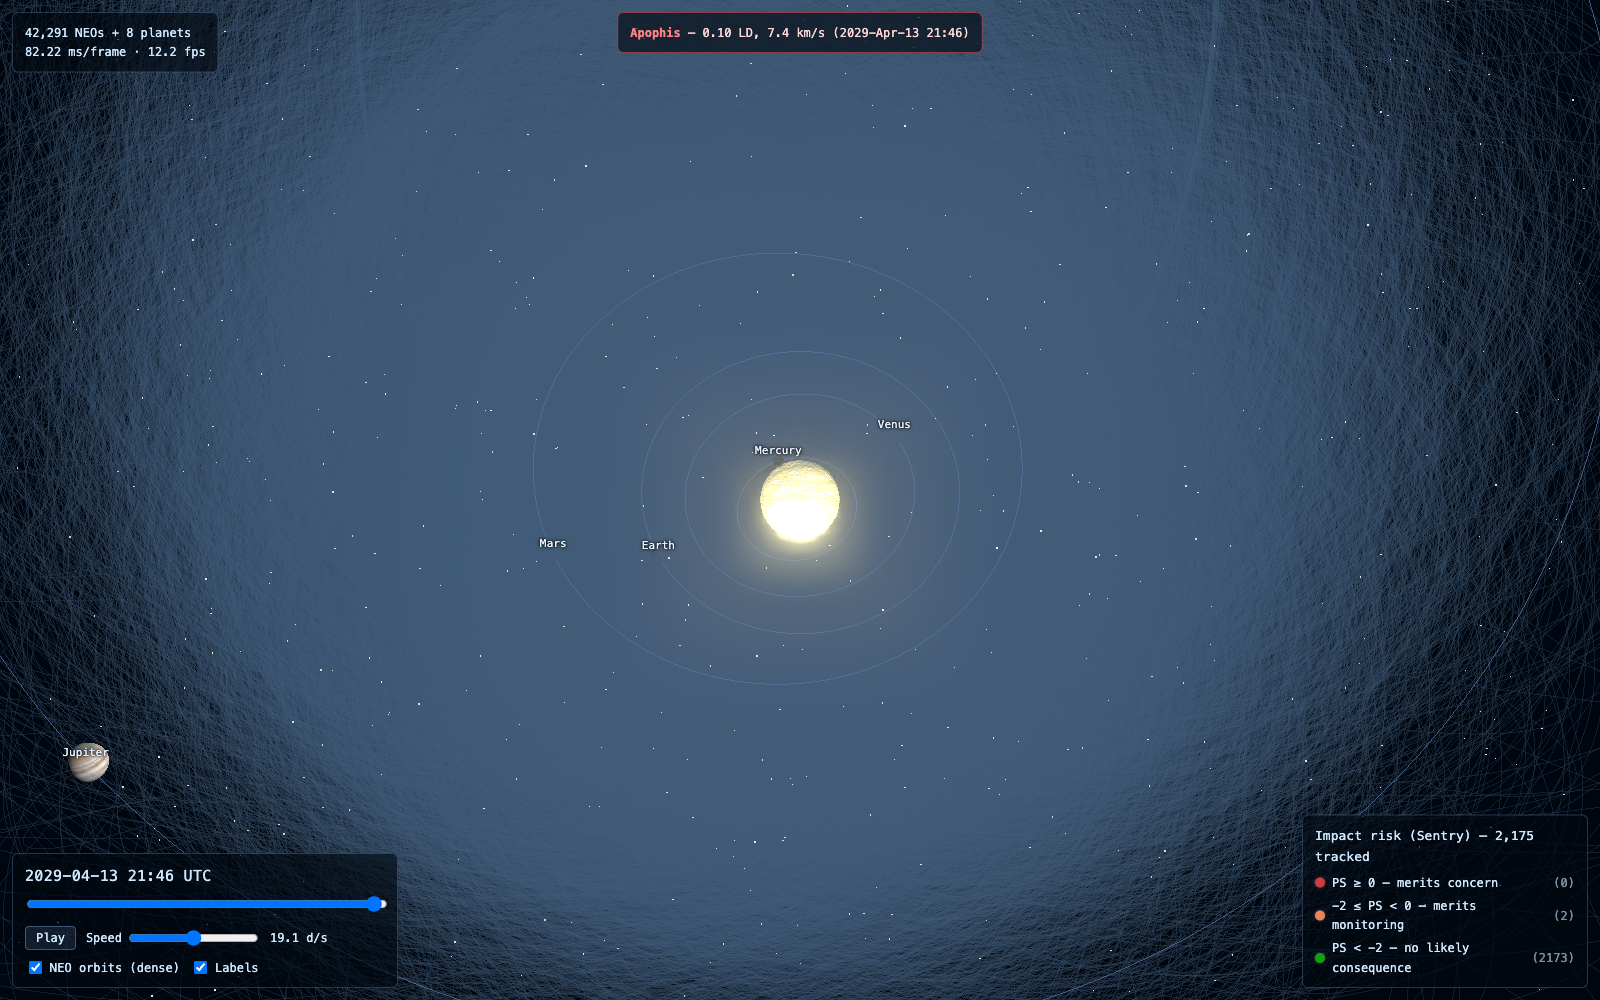
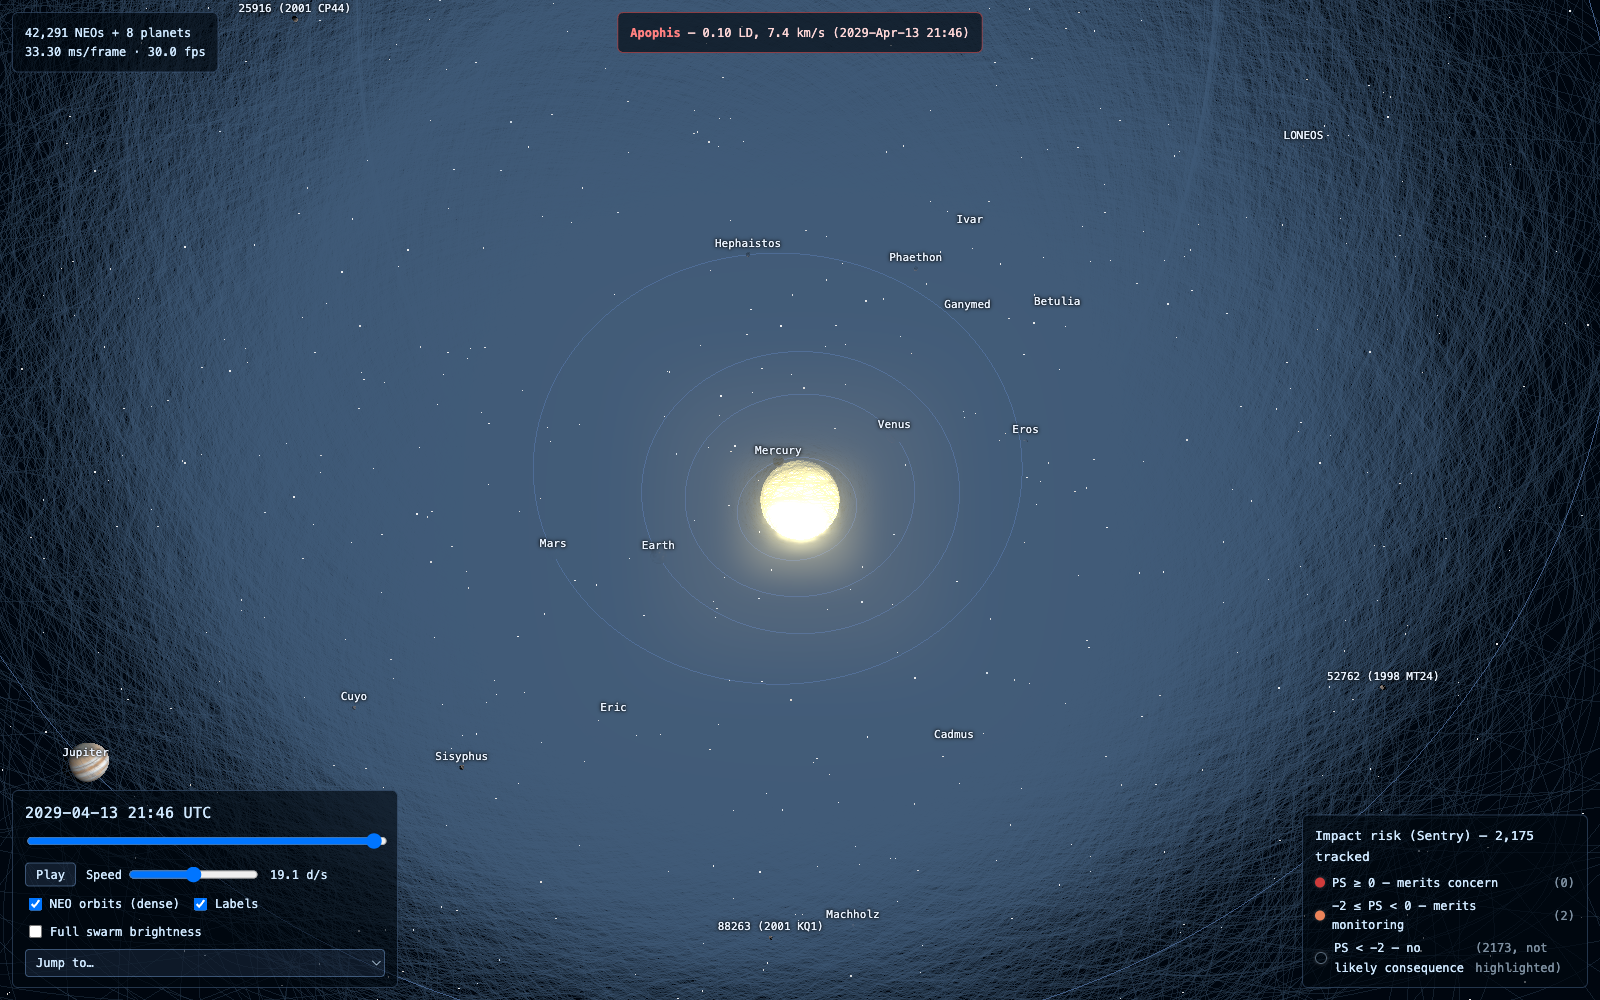
Refresh hero screenshots and add a follow-cam GIF
The previous hero images technically had textures applied but at
those zoom levels/compositions the detail barely read -- re-shot all
four with framing that actually shows it (Jupiter's bands, Mars/Earth
surface detail, inner planets visible as separate bodies instead of
lost in the Sun's bloom).

Added an animated GIF of follow-cam locked onto Earth, selected via
the jump-to picker, showing the eased transition in and then Earth's
rotation (day/night terminator, clouds, city lights) as simulated
time plays. Recorded via Playwright's video capture, trimmed and
encoded through ffmpeg's two-pass palette workflow for quality at a
reasonable file size (~2.3MB).

diff --git a/README.md b/README.md
@@ -19,6 +19,10 @@ Built with Vite + TypeScript + three.js, tested with vitest.
 
 See [Textures](#textures) below for close-ups of Earth and Saturn.
 
+**Follow cam, in motion** — picked from the [jump-to list](#controls), eases in, then tracks Earth's rotation as simulated time plays:
+
+![Follow cam locked onto Earth, showing its rotation and the day/night terminator sweeping as simulated time plays](docs/screenshots/follow-earth.gif)
+
 ## Quick start
 
 ```bash
